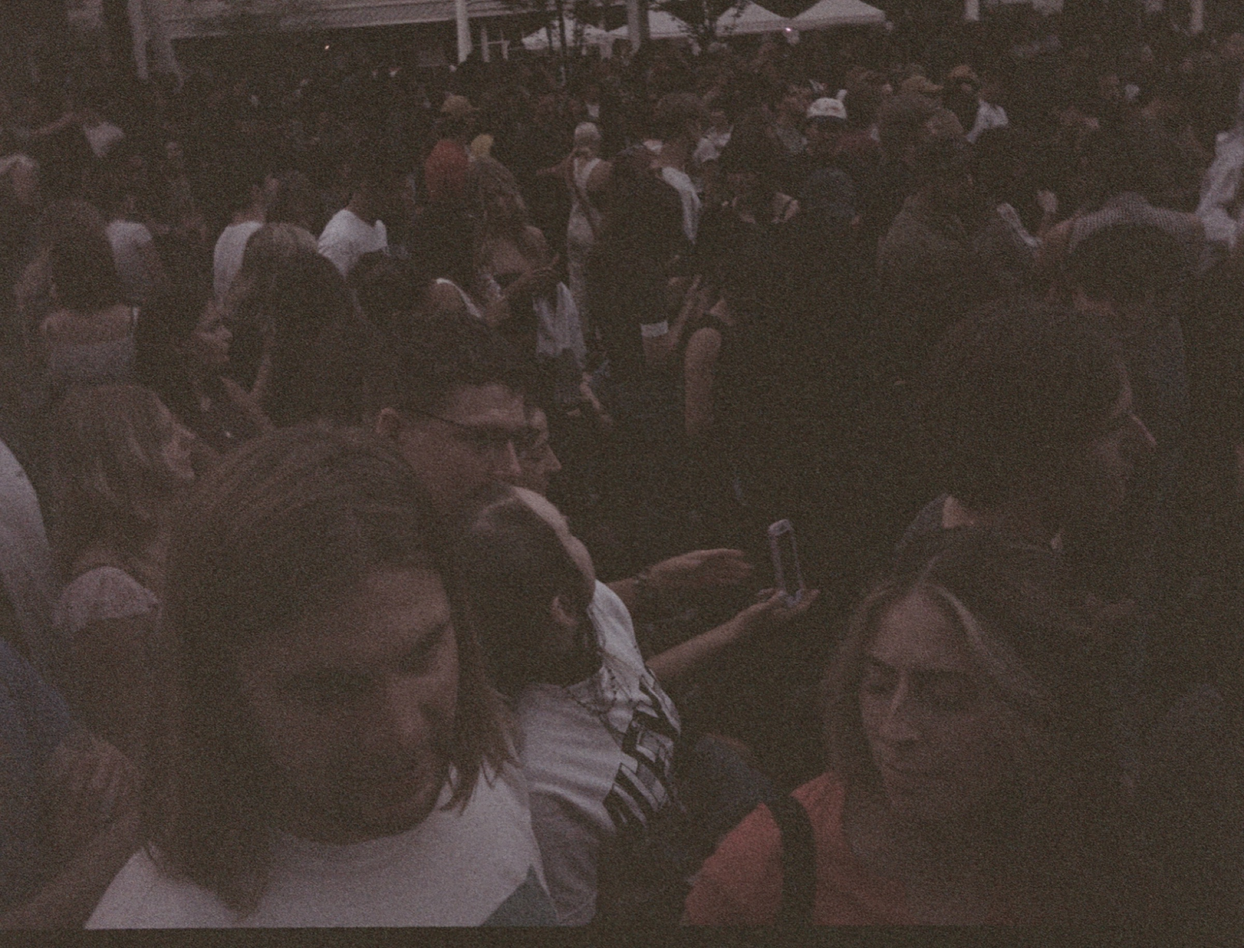
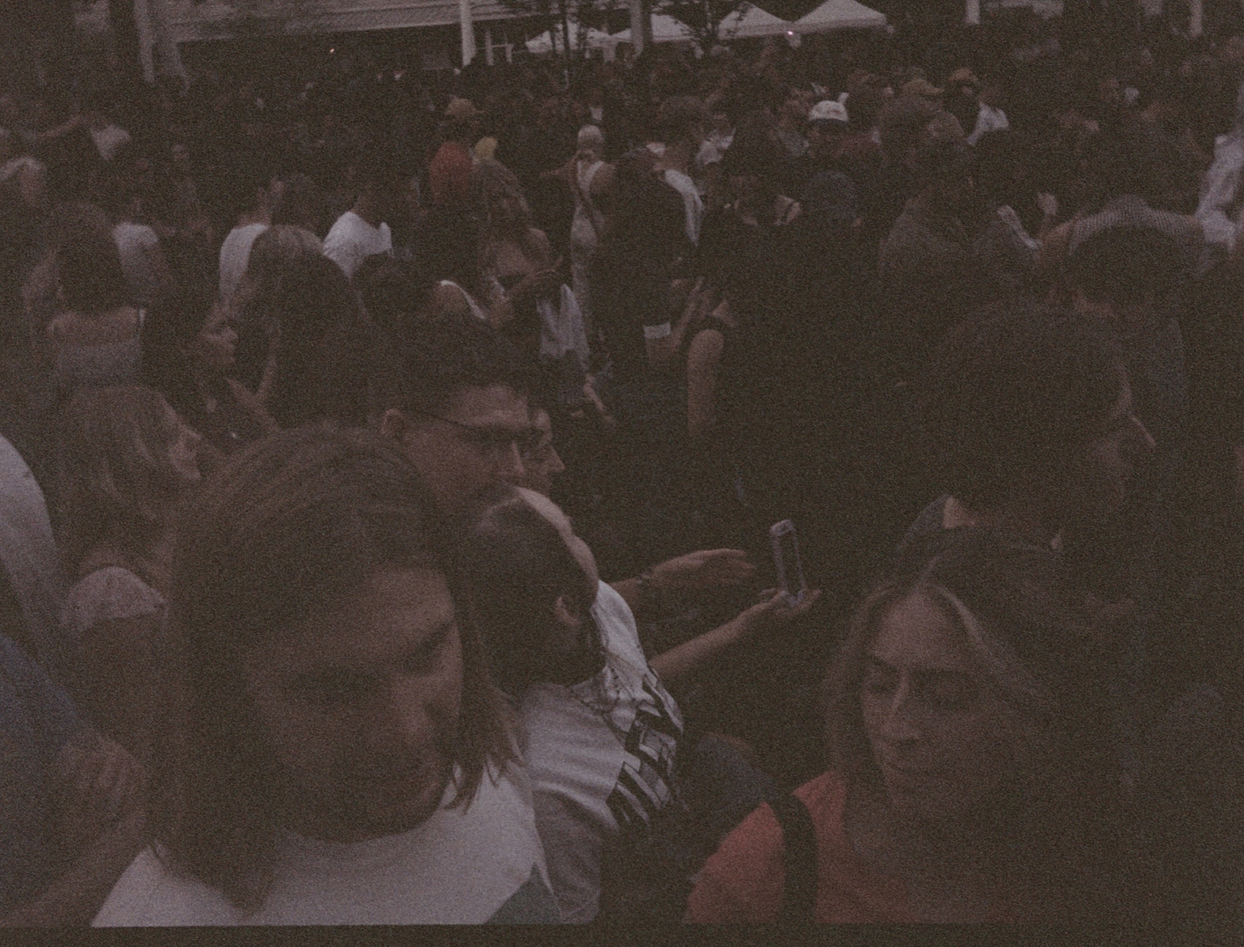
Replace scattered photo collage with a continuous scrolling filmstrip
- Removed all the individually-positioned collage photos.
- New right-side strip (all 6 "Cousin Site" photos, cropped to a
  uniform 4:5 frame like real filmstrip frames) scrolls continuously
  upward and loops seamlessly (two copies of the sequence back to
  back, animating exactly -50%). Nothing else on the page moves.
- Positioned ~7/8 across with a clear cream margin to its right,
  overlapping behind the wordmark's final "N" and the tagline's last
  word as requested.
- Respects prefers-reduced-motion.
- Mobile: shortened the strip's height so it stops above the
  side-by-side buttons instead of overlapping them -- the viewport is
  too narrow there for it to clear them horizontally.
- Updated the crowd photo to the new film shot from the desktop folder.

diff --git a/index.html b/index.html
@@ -80,23 +80,24 @@ body[data-bg="gallery"] .btn-caption,body[data-bg="pole"] .btn-caption{color:var
   border-bottom:2px solid var(--wordmark);padding-bottom:5px;transition:color .2s ease;}
 .triggers button.go:hover .btn-caption{color:var(--wordmark);opacity:1;}
 
-/* floating photo collage: photos never overlap EACH OTHER -- only the
-   wordmark/text -- except one deliberate stacked pair (pole+gazebo,
-   corner-offset like a physical pile of photos). Axis-aligned at rest
-   (only the wordmark tilts) but each photo goes askew on hover. */
-.float-collage{position:absolute;inset:0;z-index:1;overflow:hidden;pointer-events:none;}
-body[data-bg] .float-collage{display:none;}
-.float-photo{position:absolute;display:block;box-shadow:0 16px 32px rgba(23,20,13,.3);background:#000;}
-.float-above{top:2%;left:2%;width:min(30vw,340px);aspect-ratio:2400/1600;} /* gallery, solo above word (desktop only) */
-.float-stack-a{top:3%;right:5%;width:min(26vw,300px);aspect-ratio:2400/1600;} /* gazebo, moved to top-right, much bigger, right-anchored + margin so it clears the wordmark at any viewport height */
-.float-stack-b{top:68%;right:5%;width:min(22vw,260px);aspect-ratio:1714/2400;} /* pole, bigger, right-anchored so it can't overflow the viewport edge */
-.float-below{top:70%;left:2%;width:min(20vw,240px);aspect-ratio:2400/1600;} /* cairns, bigger */
+/* single moving photo strip, right side of the hero -- the ONLY motion
+   on the page. Sits ~7/8 of the way across, overlapping behind the
+   wordmark's final "N" and the tagline's last word, with a clear
+   margin of page background to its right. All 6 photos, cropped to a
+   uniform frame (like real filmstrip frames), scrolling continuously
+   upward and looping seamlessly (the track holds two copies of the
+   set back to back; animating exactly -50% brings the second copy
+   into the position the first started in). */
+.photo-strip{position:absolute;top:0;right:9%;width:min(15vw,180px);height:100%;z-index:1;
+  overflow:hidden;pointer-events:none;}
+body[data-bg] .photo-strip{display:none;}
+.photo-strip-track{display:flex;flex-direction:column;animation:filmstripScroll 48s linear infinite;}
+.photo-strip-track img{display:block;width:100%;aspect-ratio:4/5;object-fit:cover;flex:0 0 auto;
+  margin-bottom:4%;box-shadow:0 10px 24px rgba(23,20,13,.3);}
+@keyframes filmstripScroll{from{transform:translateY(0);}to{transform:translateY(-50%);}}
+@media(prefers-reduced-motion:reduce){.photo-strip-track{animation:none;}}
 @media(max-width:900px){
-  .float-collage{opacity:.9;}
-  .float-above{display:none;} /* removed on mobile -- gazebo expands to fill this space instead */
-  .float-stack-a{width:52vw;top:2%;left:6%;} /* gazebo: bigger, top extends above pole's top */
-  .float-stack-b{width:26vw;top:15%;right:8%;left:auto;} /* pole: unchanged */
-  .float-below{width:50vw;top:72%;left:40%;} /* cairns: moved right, bigger */
+  .photo-strip{width:min(24vw,120px);right:5%;height:58%;} /* stops above the buttons -- mobile is too narrow for the strip to clear them horizontally */
   .tagline-handwritten{width:calc(100% + 2 * var(--gut));margin:clamp(-8px,-1vh,-3px) calc(-1 * var(--gut)) 0;transform:none;}
 }
 
@@ -293,11 +294,21 @@ button.go[disabled]{opacity:.55;cursor:default;}
 <div class="grain" aria-hidden="true"></div>
 
 <main class="hero">
-  <div class="float-collage" aria-hidden="true">
-    <img class="float-photo float-above" src="assets/bg-test-gallery.jpg" alt="">
-    <img class="float-photo float-stack-a" src="assets/bg-test-gazebo.jpg" alt="">
-    <img class="float-photo float-stack-b" src="assets/bg-test-pole.jpg" alt="">
-    <img class="float-photo float-below" src="assets/bg-test-cairns.jpg" alt="">
+  <div class="photo-strip" aria-hidden="true">
+    <div class="photo-strip-track">
+      <img src="assets/bg-test-gallery.jpg" alt="">
+      <img src="assets/bg-test-gazebo.jpg" alt="">
+      <img src="assets/bg-test-pole.jpg" alt="">
+      <img src="assets/bg-test-cairns.jpg" alt="">
+      <img src="assets/bg-test-hotdog.jpg" alt="">
+      <img src="assets/bg-test-crowd.jpg" alt="">
+      <img src="assets/bg-test-gallery.jpg" alt="">
+      <img src="assets/bg-test-gazebo.jpg" alt="">
+      <img src="assets/bg-test-pole.jpg" alt="">
+      <img src="assets/bg-test-cairns.jpg" alt="">
+      <img src="assets/bg-test-hotdog.jpg" alt="">
+      <img src="assets/bg-test-crowd.jpg" alt="">
+    </div>
   </div>
   <div class="inner">
     <p class="kicker reveal d1">Coming soon — Issue 01</p>
